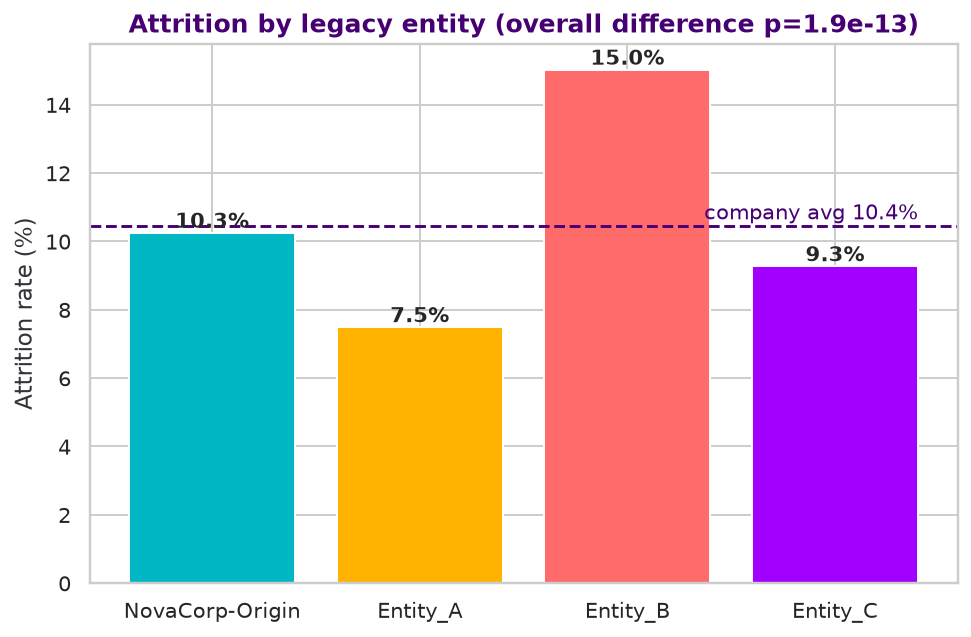
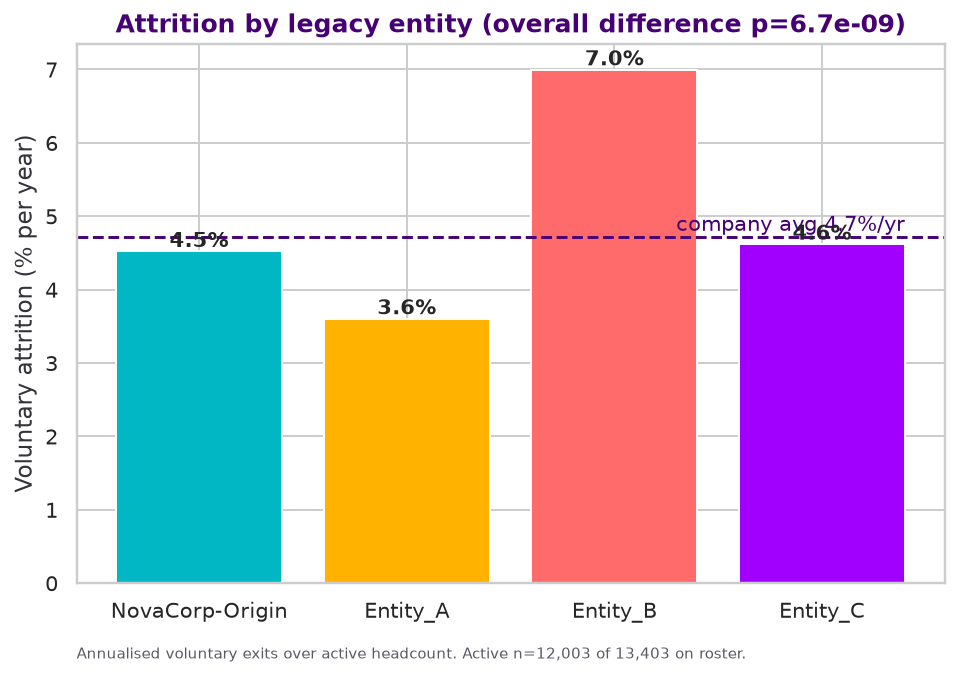
fix(explore-pt2): restate entity attrition as annualised voluntary on active headcount

diff --git a/explore_pt2/explore_part2.py b/explore_pt2/explore_part2.py
@@ -60,6 +60,10 @@ def section(t):
 DIMS = ["manager_effectiveness","psychological_safety","recognition","career_development",
         "senior_leadership_trust","purpose_meaning","wellbeing","confidence_in_role_future"]
 
+# Observation window is 1 Jan 2024 to 31 Dec 2025. Entity attrition rates are
+# divided by this so they read per year rather than per two years.
+WINDOW_YEARS = 2.0
+
 def load():
     emp = pd.read_csv(DATA_DIR / "employees.csv", parse_dates=["hire_date", "exit_date"])
     att = pd.read_csv(DATA_DIR / "attrition_log.csv", parse_dates=["exit_date"])
@@ -458,33 +462,59 @@ def entity_deep_dive(emp, d, att, eng_global):
     order = ["NovaCorp-Origin", "Entity_A", "Entity_B", "Entity_C"]
 
     # -- 7a. Headline attrition rate, with pairwise significance ------------
-    g = emp.groupby("legacy_entity_code").agg(headcount=("employee_id", "size"),
-                                               exits=("departed", "sum")).reindex(order)
-    g["rate"] = g.exits / g.headcount * 100
+    # Rate is annualised VOLUNTARY exits over ACTIVE headcount. An earlier
+    # version counted all departures including involuntary over the full
+    # roster, which is the same construction the deck criticises the Annual
+    # Report for using on slide 14. Entity_B is worst either way, the ratio
+    # moves 2.0x to 1.9x and the finding is unchanged. See A14.
+    vol_ids = set(att[att.exit_type == "voluntary"].employee_id)
+    emp = emp.copy()
+    emp["vol_exit"] = emp.employee_id.isin(vol_ids).astype(int)
+    emp["is_active"] = (emp.status == "active").astype(int)
+
+    g = emp.groupby("legacy_entity_code").agg(headcount=("is_active", "sum"),
+                                               exits=("vol_exit", "sum")).reindex(order)
+    g["rate"] = g.exits / g.headcount * 100 / WINDOW_YEARS
     print(g)
 
-    ct = pd.crosstab(emp.legacy_entity_code, emp.departed)
-    chi2, p_overall, _, _ = stats.chi2_contingency(ct)
+    def _ct(frame):
+        """
+        Voluntary exits against active headcount, for a chi-square.
+        Built explicitly rather than by crosstab so the test population matches
+        the rate we report. A crosstab on vol_exit would fold the involuntary
+        leavers in as non-events, which gives a different denominator to the
+        rate printed above it.
+        """
+        return (frame.groupby("legacy_entity_code")[["vol_exit", "is_active"]]
+                     .sum().loc[lambda d: d.sum(axis=1) > 0])
+
+    chi2, p_overall, _, _ = stats.chi2_contingency(_ct(emp))
     print(f"  overall (are entities different at all?) p={p_overall:.4g}")
+
+    def _rate(frame):
+        return frame.vol_exit.sum() / frame.is_active.sum() * 100 / WINDOW_YEARS
 
     pairs = [("Entity_B", "Entity_A"), ("Entity_B", "Entity_C"),
              ("Entity_B", "NovaCorp-Origin"), ("Entity_A", "Entity_C")]
     pair_rows = []
     for a, b in pairs:
         ea, eb = emp[emp.legacy_entity_code == a], emp[emp.legacy_entity_code == b]
-        ct2 = pd.crosstab(pd.concat([ea, eb]).legacy_entity_code, pd.concat([ea, eb]).departed)
-        chi2p, pp, _, _ = stats.chi2_contingency(ct2)
-        pair_rows.append((a, b, ea.departed.mean()*100, eb.departed.mean()*100, pp))
-        print(f"  {a} ({ea.departed.mean()*100:.1f}%) vs {b} ({eb.departed.mean()*100:.1f}%): p={pp:.4g}")
+        chi2p, pp, _, _ = stats.chi2_contingency(_ct(pd.concat([ea, eb])))
+        pair_rows.append((a, b, _rate(ea), _rate(eb), pp))
+        print(f"  {a} ({_rate(ea):.1f}%/yr) vs {b} ({_rate(eb):.1f}%/yr): p={pp:.4g}")
 
     fig, ax = plt.subplots(figsize=(8, 5))
     bars = ax.bar(g.index, g.rate, color=[ACC_TEAL, ACC_GOLD, ACC_CORAL, ACC_PURPLE])
-    company_avg = emp.departed.mean() * 100
+    company_avg = emp.vol_exit.sum() / emp.is_active.sum() * 100 / WINDOW_YEARS
     ax.axhline(company_avg, color=ACC_DEEP, ls="--", lw=1.5)
-    ax.text(3.4, company_avg + 0.2, f"company avg {company_avg:.1f}%", color=ACC_DEEP, ha="right")
+    ax.text(3.4, company_avg + 0.08, f"company avg {company_avg:.1f}%/yr", color=ACC_DEEP, ha="right")
     for b, v in zip(bars, g.rate):
-        ax.text(b.get_x()+b.get_width()/2, v+0.15, f"{v:.1f}%", ha="center", fontweight="bold")
-    ax.set_ylabel("Attrition rate (%)"); ax.set_title(f"Attrition by legacy entity (overall difference p={p_overall:.2g})")
+        ax.text(b.get_x()+b.get_width()/2, v+0.06, f"{v:.1f}%", ha="center", fontweight="bold")
+    ax.set_ylabel("Voluntary attrition (% per year)")
+    ax.set_title(f"Attrition by legacy entity (overall difference p={p_overall:.2g})")
+    ax.annotate("Annualised voluntary exits over active headcount. "
+                f"Active n={emp.is_active.sum():,} of {len(emp):,} on roster.",
+                xy=(0, -0.14), xycoords="axes fraction", fontsize=7.5, color="#5A5A66")
     f1 = savefig(fig, "entity_attrition_significance")
 
     b_row = [r for r in pair_rows if r[0] == "Entity_B" and r[1] == "Entity_A"][0]
@@ -1080,7 +1110,7 @@ and it is quietly costing NovaCorp a fortune. Here is the chain, step by step:
    manager, their team, their sense of safety -- is completely fine.
 4. **They went quiet.** Entity_B's survey response rate fell to 62.6%, twenty-one points below
    Entity_A. People who have stopped trusting leadership stop answering leadership's survey.
-5. **Then they left.** Entity_B's attrition is 15.0%, double Entity_A's 7.5%.
+5. **Then they left.** Entity_B's voluntary attrition is 7.0% a year, against Entity_A's 3.6%.
 6. **And none of it showed up on the dashboard.** The overall engagement score averages all eight
    survey questions together, so two collapsed scores got diluted by six healthy ones. Entity_B
    looks almost normal on the one number HR actually watches.

diff --git a/explore_pt2/part2b_outputs/findings_part2.md b/explore_pt2/part2b_outputs/findings_part2.md
@@ -17,7 +17,7 @@ and it is quietly costing NovaCorp a fortune. Here is the chain, step by step:
    manager, their team, their sense of safety -- is completely fine.
 4. **They went quiet.** Entity_B's survey response rate fell to 62.6%, twenty-one points below
    Entity_A. People who have stopped trusting leadership stop answering leadership's survey.
-5. **Then they left.** Entity_B's attrition is 15.0%, double Entity_A's 7.5%.
+5. **Then they left.** Entity_B's voluntary attrition is 7.0% a year, against Entity_A's 3.6%.
 6. **And none of it showed up on the dashboard.** The overall engagement score averages all eight
    survey questions together, so two collapsed scores got diluted by six healthy ones. Entity_B
    looks almost normal on the one number HR actually watches.
@@ -135,7 +135,7 @@ better than NovaCorp's own people, and are leaving anyway.
 ### 7. Entity_B's attrition gap is not random noise -- it is statistically real and large
 **In plain English.** 'Legacy entity' records which company an employee originally came from: NovaCorp-Origin (never acquired), or Entity_A / Entity_B / Entity_C (each acquired at a different time -- Entity_A in FY2022, Entity_B in FY2023, Entity_C in late FY2024). We tested, formally, whether the attrition-rate differences between entities could just be random chance, using a chi-square test across all four groups, then pairwise tests comparing Entity_B specifically against each of the others.
 
-**What the data shows.** Overall: 10.3% (NovaCorp-Origin), 7.5% (Entity_A), 15.0% (Entity_B), 9.3% (Entity_C). The difference across all four groups is statistically real (p=1.9e-13, far below 0.05). Entity_B vs. Entity_A specifically: p=2e-13 -- essentially impossible to be chance given the sample sizes involved (1,950 and 1,884 people respectively).
+**What the data shows.** Overall: 4.5% (NovaCorp-Origin), 3.6% (Entity_A), 7.0% (Entity_B), 4.6% (Entity_C). The difference across all four groups is statistically real (p=6.7e-09, far below 0.05). Entity_B vs. Entity_A specifically: p=8e-09 -- essentially impossible to be chance given the sample sizes involved (1,804 and 1,601 people respectively).
 
 **So what.** This is the single most defensible, statistically bulletproof finding in the whole analysis -- it's not a judgment call or a small-sample fluke, it's a large, clean, significant gap. It should anchor the recommendation, not be one bullet among many.
 
@@ -177,7 +177,7 @@ better than NovaCorp's own people, and are leaving anyway.
 ### 11. Entity_A is the proof that integration works -- it is now the safest cohort in the company
 **In plain English.** Entity_A was acquired in FY2022 and, per the Annual Report, has 'reached full operational integration.' If integration genuinely fixes the attrition problem, Entity_A should look at least as healthy as NovaCorp's original workforce by now -- not merely better than the other acquired entities.
 
-**What the data shows.** Entity_A's attrition rate is 7.5%, which is not just far below Entity_B's 15.0% -- it is below NovaCorp-Origin's own 10.3% and below the 10.4% company average. Entity_C, integrated only from late FY2024, sits at 9.3% -- and the Entity_A vs Entity_C difference is NOT statistically significant (p=0.106), meaning Entity_C currently looks like a normal, healthy cohort rather than a second Entity_B.
+**What the data shows.** Entity_A's attrition rate is 3.6%, which is not just far below Entity_B's 7.0% -- it is below NovaCorp-Origin's own 4.5% and below the 4.7% company average. Entity_C, integrated only from late FY2024, sits at 4.6% -- and the Entity_A vs Entity_C difference is NOT statistically significant (p=0.101), meaning Entity_C currently looks like a normal, healthy cohort rather than a second Entity_B.
 
 **So what.** This turns the recommendation from 'we hope integration will help' into 'we have already proven it works, using our own data.' Entity_A is a live before-and-after case study inside NovaCorp's own walls -- completing Entity_B's integration is not a bet, it is replicating a result the company has already achieved once. It also sets the success metric: Entity_B should be tracked against Entity_A's recovery, not against a generic benchmark.
 
